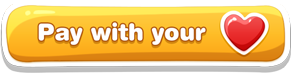
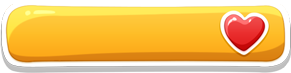
finish mission page after login

Changed region(s): [[0.1237, 0.274, 0.7113, 0.6575]]

diff --git a/src/layers/parent/MissionPageLayer.js b/src/layers/parent/MissionPageLayer.js
@@ -1,15 +1,31 @@
 var MissionPageLayer = cc.Layer.extend({
+    _hasLaterBtn: false,
+
     _contentTextScale: 0.35,
     _contentTextOffSetY: 5,
 
     _buttonOffSetY: 10,
 
-    ctor: function() {
+    _backgroundZOrder: 1,
+    _childrenZOrder: 3,
+    _cloudZOrder: 2,
+
+    _childrenOffSetY: 0,
+
+    ctor: function(hasLaterBtn) {
         this._super();
+        this._hasLaterBtn = hasLaterBtn;
+
+        debugLog("MissionPageLayer ctor _hasLaterBtn -> " + this._hasLaterBtn);
+        if (hasLaterBtn) {
+            this._childrenOffSetY = 50;
+            this._addLaterBtn();
+        }
 
         this._addBackground();
         this._addMissionContent();
         this._addButtons();
+
     },
 
     _addBackground: function() {
@@ -17,31 +33,80 @@ var MissionPageLayer = cc.Layer.extend({
         background.x = cc.winSize.width/2;
         background.y = cc.winSize.height/2;
         this.addChild(background);
+
+        var children = new cc.Sprite("#children.png");
+        children.scale = 0.9;
+        children.x = cc.winSize.width/2;
+        children.y = cc.winSize.height/2 + this._childrenOffSetY;
+        this.addChild(children, this._childrenZOrder);
     },
 
     _addButtons: function() {
         var b = new ccui.Button("btn_pay_with_heart.png", "", "", ccui.Widget.PLIST_TEXTURE);
         b.name = "pay";
         b.x = cc.winSize.width/2 - b.width/2 - 20;
-        b.y = b.height - this._buttonOffSetY;
+        b.y = b.height - this._buttonOffSetY + this._childrenOffSetY;
         this.addChild(b);
 
         b.addClickEventListener(this._btnPressed.bind(this));
 
-        b = new ccui.Button("btn_play_for_free.png", "", "", ccui.Widget.PLIST_TEXTURE);
-        b.name = "play";
+        var lb = new cc.LabelBMFont("Pay with your", res.HomeFont_fnt);
+        lb.scale = 0.4;
+        lb.textAlign = cc.TEXT_ALIGNMENT_CENTER;
+        lb.x = b.width/2 - 30;
+        lb.y = b.height/2 + 10;
+        b.addChild(lb);
+
+        if (this._hasLaterBtn) {
+            b = new ccui.Button("btn_empty.png", "", "", ccui.Widget.PLIST_TEXTURE);
+            b.name = "share";
+
+            var lb = new cc.LabelBMFont("Share & Spread the message", res.HomeFont_fnt);
+            lb.scale = 0.3;
+            lb.boundingWidth = b.width*2;
+        } else {
+            b = new ccui.Button("btn_empty.png", "", "", ccui.Widget.PLIST_TEXTURE);
+            b.name = "play";
+
+            var lb = new cc.LabelBMFont("Play for free", res.HomeFont_fnt);
+            lb.scale = 0.4;
+        }
+        lb.textAlign = cc.TEXT_ALIGNMENT_CENTER;
+        lb.x = b.width/2;
+        lb.y = b.height/2 + 5;
+        b.addChild(lb);
+        
         b.x = cc.winSize.width/2 + b.width/2 + 20;
-        b.y = b.height - this._buttonOffSetY;
+        b.y = b.height - this._buttonOffSetY + this._childrenOffSetY;
         this.addChild(b);
 
         b.addClickEventListener(this._btnPressed.bind(this));
+
+    },
+
+    _addLaterBtn: function() {
+        var b = new ccui.Button(res.Pay_button_normal_png, res.Pay_button_pressed_png);
+        b.x = cc.winSize.width/2;
+        b.y = b.height/2;
+        this.addChild(b, this._childrenZOrder);
+        b.addClickEventListener(function() {
+            cc.director.replaceScene(new GrownUpMenuScene());
+        }.bind(this));
+
+        var content = "I'll do it later!";
+        var lb = new cc.LabelBMFont(content, res.HomeFont_fnt);
+        lb.scale = 0.3;
+        lb.textAlign = cc.TEXT_ALIGNMENT_CENTER;
+        lb.x = b.width/2;
+        lb.y = b.height/2 + this._contentTextOffSetY;
+        b.addChild(lb);
     },
 
     _addMissionContent: function() {
         var lCloud = new cc.Sprite("#left_cloud.png");
         lCloud.setAnchorPoint(0, 1);
         lCloud.y = cc.winSize.height;
-        this.addChild(lCloud);
+        this.addChild(lCloud, this._cloudZOrder);
 
         var content = "When you pay with your heart, we educate a child in need";
         var lContent = new cc.LabelBMFont(content, res.Grown_Up_fnt);
@@ -56,7 +121,7 @@ var MissionPageLayer = cc.Layer.extend({
         rCloud.setAnchorPoint(1, 1);
         rCloud.x = cc.winSize.width;
         rCloud.y = cc.winSize.height;
-        this.addChild(rCloud);
+        this.addChild(rCloud, this._cloudZOrder);
 
         content = "Our mission is provide equal education to every child";
         var rContent = new cc.LabelBMFont(content, res.Grown_Up_fnt);
@@ -73,7 +138,7 @@ var MissionPageLayer = cc.Layer.extend({
         switch(btnName) {
             case "pay":
                 if (User.isLoggedIn())
-                    this.addChild(new GrownUpCheckDialog(this._payCallBack));
+                    this.addChild(new GrownUpCheckDialog(this._payCallBack), this._childrenZOrder+1);
                 else {
                     LoadingIndicator.show();
                     FirebaseManager.getInstance().login(function(succeed, msg) {
@@ -103,6 +168,9 @@ var MissionPageLayer = cc.Layer.extend({
                     })
                 }
                 break;
+            case "share":
+                var layer = new ShareDialog();
+                this.addChild(layer, 999999);
             default:
                 break;
         }
@@ -115,9 +183,9 @@ var MissionPageLayer = cc.Layer.extend({
 });
 
 var MissionPageScene = cc.Scene.extend({
-    ctor: function() {
+    ctor: function(hasLaterBtn) {
         this._super();
 
-        this.addChild(new MissionPageLayer());
+        this.addChild(new MissionPageLayer(hasLaterBtn));
     }
 });

diff --git a/src/layers/Alphabet/ShopHUDLayer.js b/src/layers/Alphabet/ShopHUDLayer.js
@@ -11,6 +11,8 @@ var ShopHUDLayer = SpecifyGoalHudLayer.extend({
     _bgDiamond: null,
     _backButton: null,
 
+    _backBtnCallback: null,
+
     ctor: function() {
         this._showClock = false;
         this._super();
@@ -37,8 +39,11 @@ var ShopHUDLayer = SpecifyGoalHudLayer.extend({
         this.addChild(button, 9999);
         button.addClickEventListener(function(){
             AudioManager.getInstance().play(res.back_sound_mp3, false, null);
-            cc.director.runScene(new HomeScene());
-        });
+            if (this._backBtnCallback)
+                callback();
+            else
+                cc.director.runScene(new HomeScene());
+        }.bind(this));
         this._backButton = button;
     },
 
@@ -88,5 +93,9 @@ var ShopHUDLayer = SpecifyGoalHudLayer.extend({
         var diamond = CurrencyManager.getInstance().getDiamond();
         this._lbCoin.setString(coin);
         this._lbDiamond.setString(diamond);
+    },
+
+    setBackBtnCallback: function(callback) {
+        this._backBtnCallback = callback;
     },
 });

diff --git a/src/layers/MainApp/GrownUpMenuLayer.js b/src/layers/MainApp/GrownUpMenuLayer.js
@@ -168,7 +168,7 @@ var GrownUpMenuLayer = cc.LayerColor.extend({
         button.y = cc.winSize.height - 50;
         this.addChild(button);
         button.addClickEventListener(function(){
-            cc.director.replaceScene(new HomeScene());
+            cc.director.replaceScene(new MissionPageScene(true));
         });
     },
 

diff --git a/src/layers/MainApp/HomeScreenLayer.js b/src/layers/MainApp/HomeScreenLayer.js
@@ -50,7 +50,7 @@ var HomeScreenLayer = cc.Layer.extend({
     },
 
     grownUpCheckCallback: function() {
-        cc.director.replaceScene(new GrownUpMenuScene())
+        cc.director.replaceScene(new MissionPageScene(true));
     },
 
     addBackGround: function() {

diff --git a/src/layers/ShareDialog.js b/src/layers/ShareDialog.js
@@ -20,6 +20,7 @@ var ShareDialog = Dialog.extend({
         this.addChild(dialogBg);
         this._dialogBg = dialogBg;
         this.background = dialogBg;
+        this.background.setCascadeOpacityEnabled(true);
 	},
 
 	_addTitle: function() {
